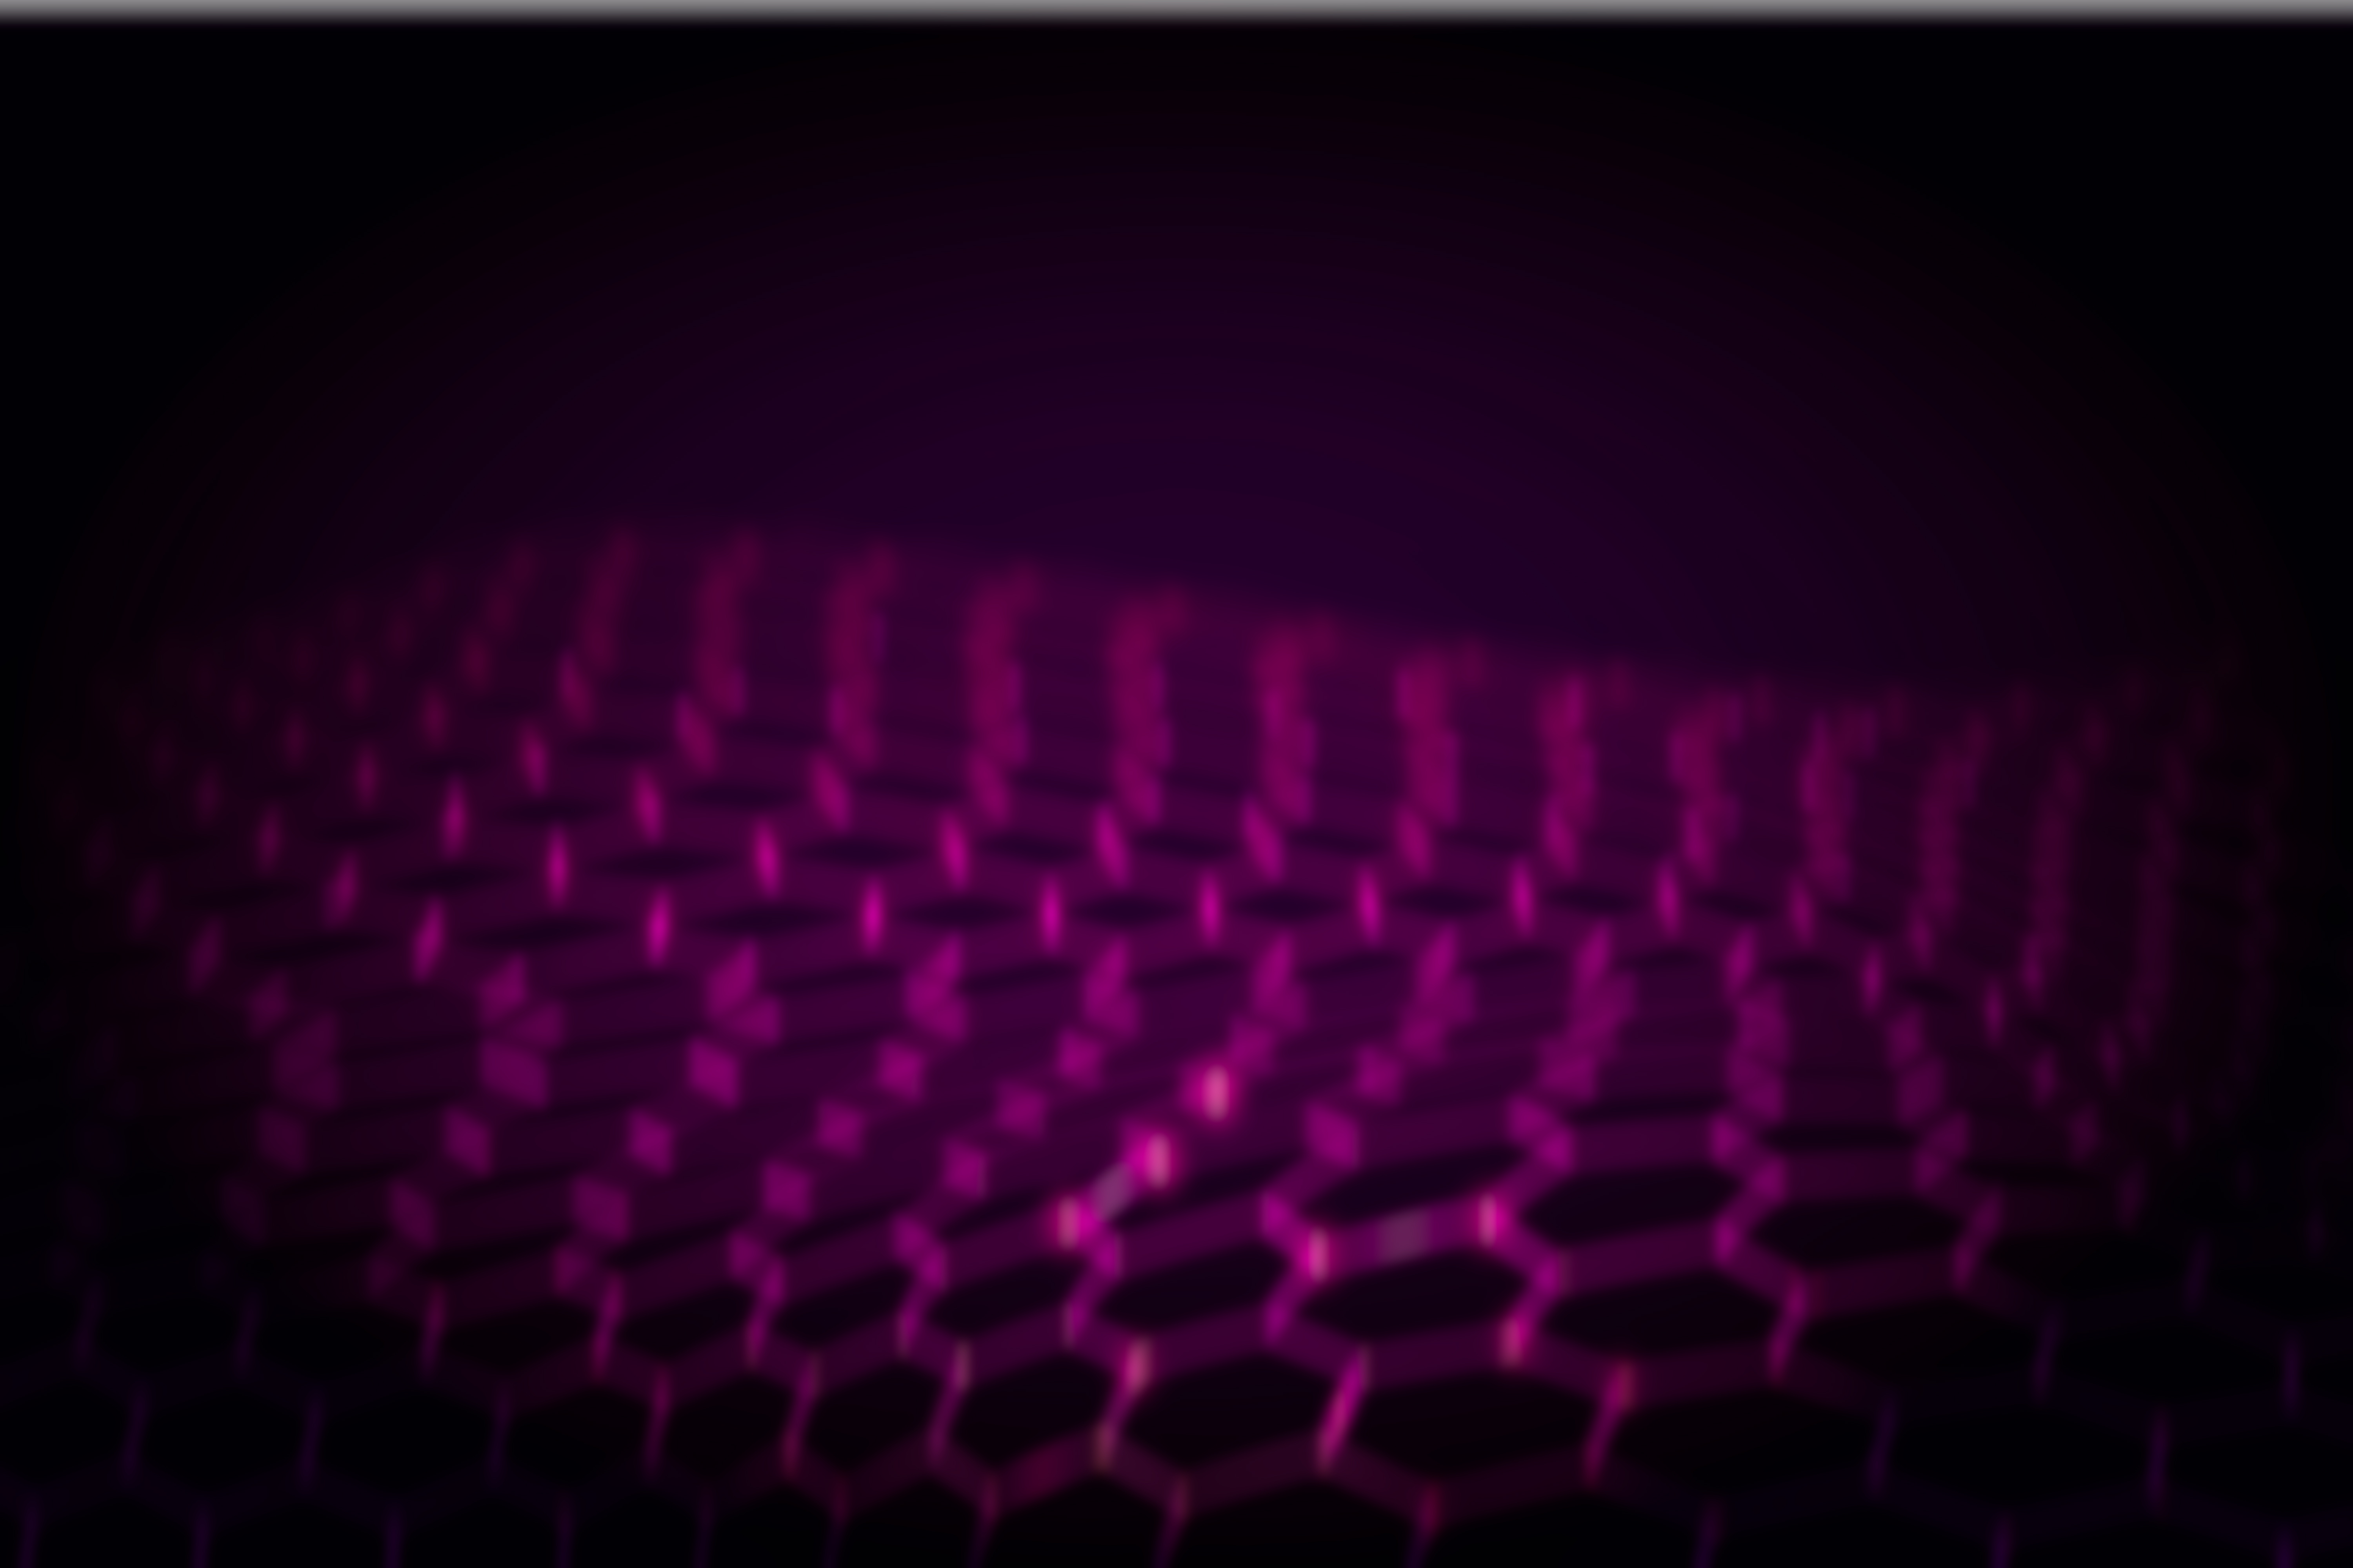
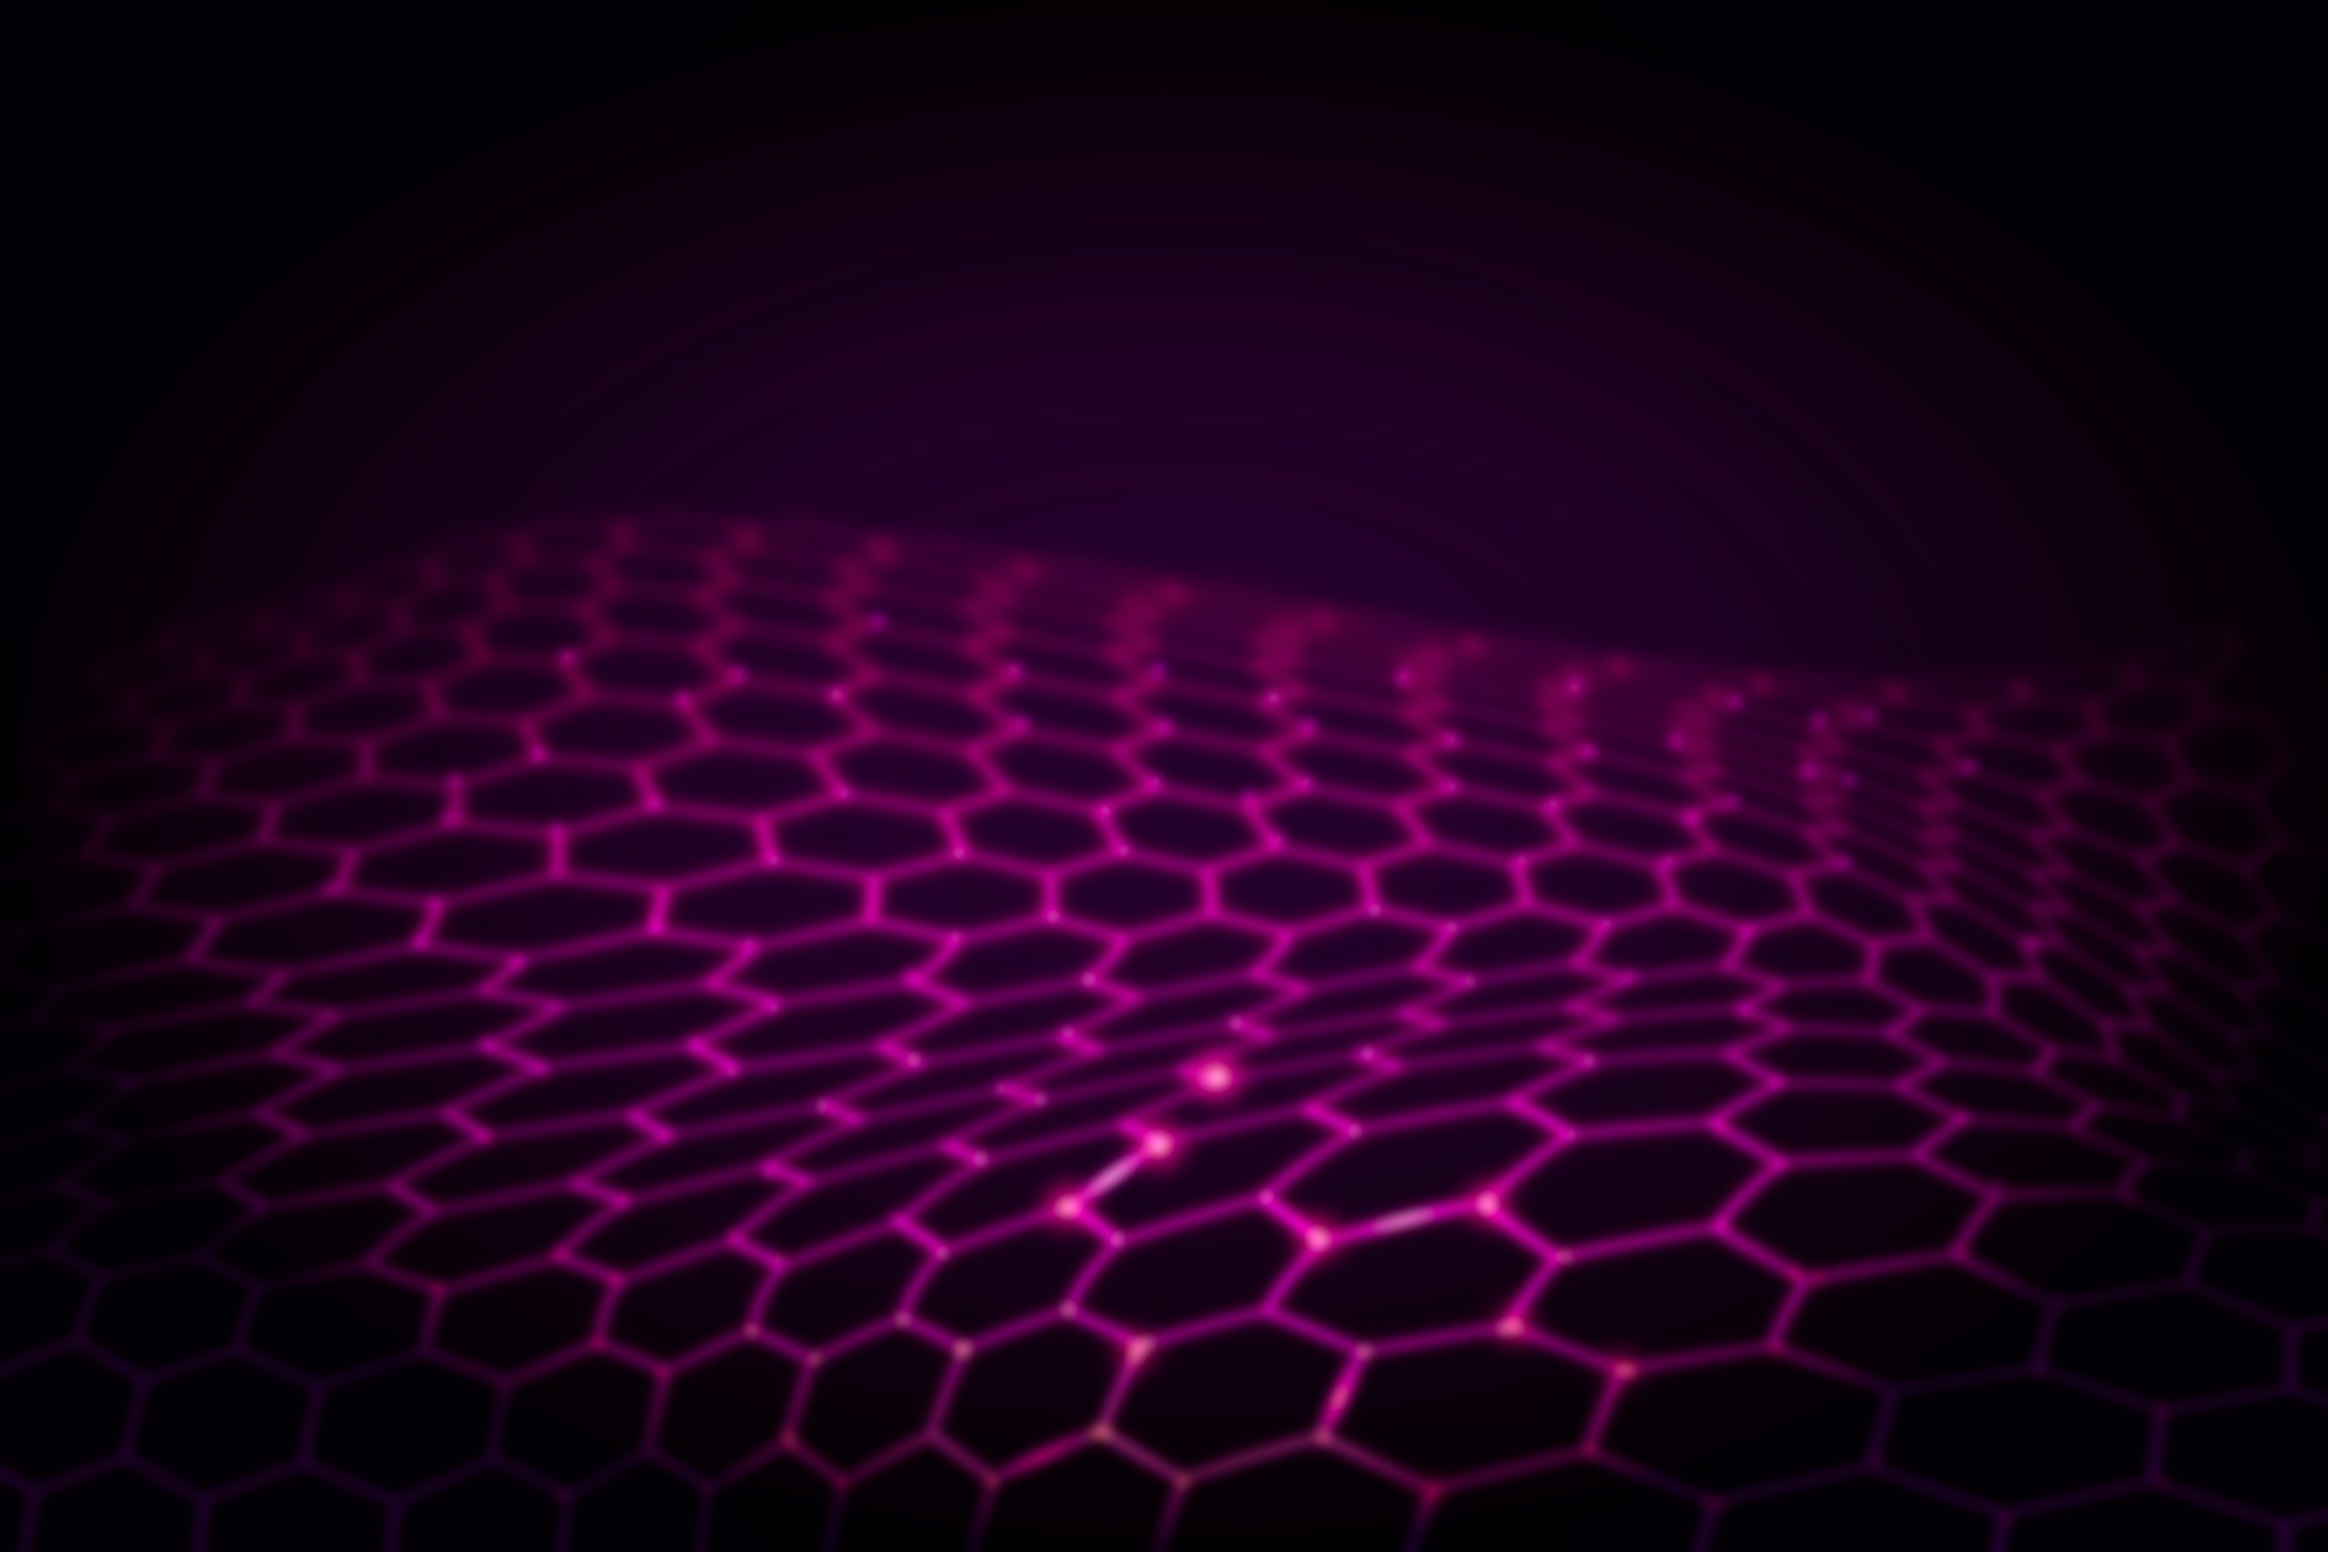
Changes to the colorful button

diff --git a/lib/component/manager.dart b/lib/component/manager.dart
@@ -2,7 +2,6 @@ import 'dart:math';
 
 import 'package:colo/component/color_button.dart';
 import 'package:colo/game.dart';
-import 'package:colo/utils/vibration.dart';
 import 'package:flame/components.dart';
 import 'package:flutter/material.dart';
 
@@ -12,9 +11,6 @@ enum GameLevel {
 
 /// Manger for controlling the game rules
 class GameManager extends Component with HasGameRef<ColoGame> {
-
-  /// What happens when the bar falling speed changes
-  final void Function(double) onBarFallingSpeedChange;
   /// Game colors structure
   late List<Color> _gameColors;
   /// Action buttons structure
@@ -23,16 +19,13 @@ class GameManager extends Component with HasGameRef<ColoGame> {
   late ValueNotifier<int> _destroyedBars;
   /// Current game level
   late GameLevel _level;
-  /// Falling interval for the bars
-  late double _barFallingInterval;
   /// Multiplier for the falling speed of the bars
   late double _barFallingSpeedMultiplier;
 
-  GameManager({required this.onBarFallingSpeedChange}) {
+  GameManager() {
     _level = GameLevel.easy;
     _gameColors = List.generate(_getGameColors(), (index) => colors.values.toList()[index]);
     _destroyedBars = ValueNotifier(0);
-    _barFallingInterval = barInterval;
     _barFallingSpeedMultiplier = 1;
   }
 
@@ -133,16 +126,7 @@ class GameManager extends Component with HasGameRef<ColoGame> {
     /// If its hard level and 20 more bars are destroyed - increase bar falling speed
     if (_destroyedBars.value > 40 && _destroyedBars.value % 20 == 1) {
       _barFallingSpeedMultiplier = _barFallingSpeedMultiplier + 0.0001;
-      onBarFallingSpeedChange(_getBarInterval());
     }
-  }
-  /// Gets the game bar interval based on the level
-  double _getBarInterval() {
-    if (_barFallingInterval >= 0.4) {
-      _barFallingInterval = _barFallingInterval - 0.002;
-    }
-
-    return _barFallingInterval;
   }
 
   /// Gets a riv file based on the color based on the game level
@@ -192,7 +176,6 @@ class GameManager extends Component with HasGameRef<ColoGame> {
     if (_destroyedBars.value < 0) {
       gameOver();
     }
-    vibrate();
   }
   /// Pauses the game
   void gameOver() => game.pauseEngine();

diff --git a/lib/component/color_button.dart b/lib/component/color_button.dart
@@ -1,7 +1,7 @@
+import 'package:colo/utils/vibration.dart';
 import 'package:flame/components.dart';
 import 'package:flame/effects.dart';
 import 'package:flame/flame.dart';
-import 'package:flame/rendering.dart';
 import 'package:flutter/material.dart';
 
 /// Renders a colorful button
@@ -36,15 +36,6 @@ class ColorfulButton extends SpriteComponent {
   Future<void> onLoad() async{
     super.onLoad();
     final button = await Flame.images.load('round_button.png');
-    decorator.addLast(
-        Shadow3DDecorator(
-          angle: -0.5,
-          xShift: 1.2,
-          yScale: 1.2,
-          opacity: 0.5,
-          blur: 1.5,
-        )
-    );
     position = btnPosition();
     size = Vector2(height * 2, height * 2);
     priority = 1;
@@ -52,22 +43,25 @@ class ColorfulButton extends SpriteComponent {
   }
 
   /// What happens when the button is clicked and not released
-  void handleClick() async => await add(
-      MoveByEffect(
-          Vector2(0, 10),
-          EffectController(
-            duration: 0.2,
-            curve: Curves.decelerate,
-          ),
-          onComplete: () => add(
-              MoveByEffect(
-                Vector2(0, -10),
-                EffectController(
-                  duration: 0.2,
-                  curve: Curves.decelerate,
-                ),
-              )
-          )
-      )
-  );
+  void handleClick() async {
+    await add(
+        MoveByEffect(
+            Vector2(0, 10),
+            EffectController(
+              duration: 0.2,
+              curve: Curves.decelerate,
+            ),
+            onComplete: () => add(
+                MoveByEffect(
+                  Vector2(0, -10),
+                  EffectController(
+                    duration: 0.2,
+                    curve: Curves.decelerate,
+                  ),
+                )
+            )
+        )
+    );
+    vibrate();
+  }
 }

diff --git a/lib/component/bar.dart b/lib/component/bar.dart
@@ -4,9 +4,11 @@ import 'package:colo/component/bullet.dart';
 import 'package:colo/component/riv.dart';
 import 'package:colo/game.dart';
 import 'package:colo/utils/audio.dart';
+import 'package:colo/widgets/particle.dart';
 import 'package:flame/collisions.dart';
 import 'package:flame/components.dart';
 import 'package:flame/particles.dart';
+import 'package:flame/rendering.dart';
 import 'package:flame_rive/flame_rive.dart';
 import 'package:flutter/material.dart';
 
@@ -34,8 +36,16 @@ class Bar extends RectangleComponent with HasGameRef<ColoGame>, CollisionCallbac
   
   @override
   Future<void> onLoad() async {
+    decorator.addLast(
+        Shadow3DDecorator(
+          angle: - 0.5,
+          xShift: 1.2,
+          yScale: 1.2,
+          opacity: 0.5,
+          blur: 1.5,
+        )
+    );
     position = Vector2(_generateRandomDx(), 0);
-    // position = Vector2(30, 0);
     final waveRiv = await loadArtboard(RiveFile.asset(game.manager.getRivAssetBasedOnColor(color: color)));
     riv = RivAnimationComponent(artBoard: waveRiv, size: barSize);
     await add(riv);
@@ -89,10 +99,10 @@ class Bar extends RectangleComponent with HasGameRef<ColoGame>, CollisionCallbac
         acceleration: _getRandomVector() * 3.0,
         speed: _getRandomVector() * 8.0,
         position: Vector2((game.size / 2).x, position.y),
-        child: CircleParticle(
+        child: CustomParticle(
             radius: 3,
             paint: Paint()
-              ..color = color.withOpacity(0.7)
+              ..color = color
               ..filterQuality = FilterQuality.high
               ..isAntiAlias = true
         ),

diff --git a/lib/component/bullet.dart b/lib/component/bullet.dart
@@ -3,6 +3,7 @@ import 'dart:math';
 import 'package:colo/component/bar.dart';
 import 'package:colo/game.dart';
 import 'package:colo/utils/audio.dart';
+import 'package:colo/widgets/particle.dart';
 import 'package:flame/collisions.dart';
 import 'package:flame/components.dart';
 import 'package:flame/particles.dart';
@@ -29,6 +30,7 @@ class Bullet extends CircleComponent with HasGameRef<ColoGame>, CollisionCallbac
   @override
   Future<void> onLoad() async {
     super.onLoad();
+
     play(asset: 'rocket.wav', volume: 0.05);
     position = Vector2(game.size.x / 2, game.size.y);
   }
@@ -49,9 +51,10 @@ class Bullet extends CircleComponent with HasGameRef<ColoGame>, CollisionCallbac
               generator: (i) => AcceleratedParticle(
                 acceleration: _getRandomVector(),
                 speed: _getRandomVector(),
-                child: CircleParticle(
+                child: CustomParticle(
                   radius: 1,
                   paint: Paint()..color = bulletColor,
+                  shadowColor: bulletColor
                 ),
               ),
             )
@@ -73,7 +76,7 @@ class Bullet extends CircleComponent with HasGameRef<ColoGame>, CollisionCallbac
                   position: position.clone(),
                   acceleration: _getRandomVector() * 2.0,
                   speed: _getRandomVector() * 2.0,
-                  child: CircleParticle(
+                  child: CustomParticle(
                     radius: 1,
                     paint: Paint()..color = bulletColor,
                   ),

diff --git a/lib/game.dart b/lib/game.dart
@@ -23,6 +23,8 @@ const barVelocity = 100.0;
 const barInterval = 0.8;
 /// Velocity of the bullet
 const bulletVelocity = 500;
+/// Speed of the background parallax effect
+const backgroundParallax = 25.0;
 /// Game colors
 const Map<String, Color> colors = {
   'assets/wave_purple.riv' : Colors.deepPurpleAccent,
@@ -51,14 +53,14 @@ class ColoGame extends FlameGame with TapDetector, HasCollisionDetection {
   Future<void> onLoad() async {
     super.onLoad();
 
-    manager = GameManager(onBarFallingSpeedChange: _onLevelChange);
+    manager = GameManager();
     _score = Score(text: '${manager.score}');
 
     /// ---------------- Adds components to the game ---------------------------
     await addAll(
         [
           manager,
-          Background(asset: 'background2.jpg'),
+          Background(asset: 'background.jpg'),
           _renderBar(),
           _score
         ]
@@ -110,7 +112,4 @@ class ColoGame extends FlameGame with TapDetector, HasCollisionDetection {
         barSize: Vector2(size.x / 2, 50),
     );
   }
-
-  /// What happens when the game level is changed
-  void _onLevelChange(double interval) => _barInterval.limit = interval;
 }

diff --git a/lib/widgets/particle.dart b/lib/widgets/particle.dart
@@ -1,0 +1,23 @@
+import 'package:flame/particles.dart';
+import 'package:flutter/material.dart';
+
+/// Renders a custom particle with shadow
+class CustomParticle extends CircleParticle {
+
+  /// Shadow color
+  final Color shadowColor;
+
+  CustomParticle({required super.paint, required super.radius, this.shadowColor = Colors.black54});
+
+  @override
+  void render(Canvas canvas) {
+    super.render(canvas);
+    canvas.drawCircle(
+        Offset.zero,
+        radius + 1,
+        Paint()
+          ..color = shadowColor
+          ..maskFilter = const MaskFilter.blur(BlurStyle.normal, 3.0)
+    );
+  }
+}

diff --git a/lib/component/background.dart b/lib/component/background.dart
@@ -31,6 +31,6 @@ class Background extends ParallaxComponent<ColoGame> {
   @override
   void update(double dt) {
     super.update(dt);
-    parallax?.baseVelocity.x = barVelocity;
+    parallax?.baseVelocity.x = backgroundParallax;
   }
 }
